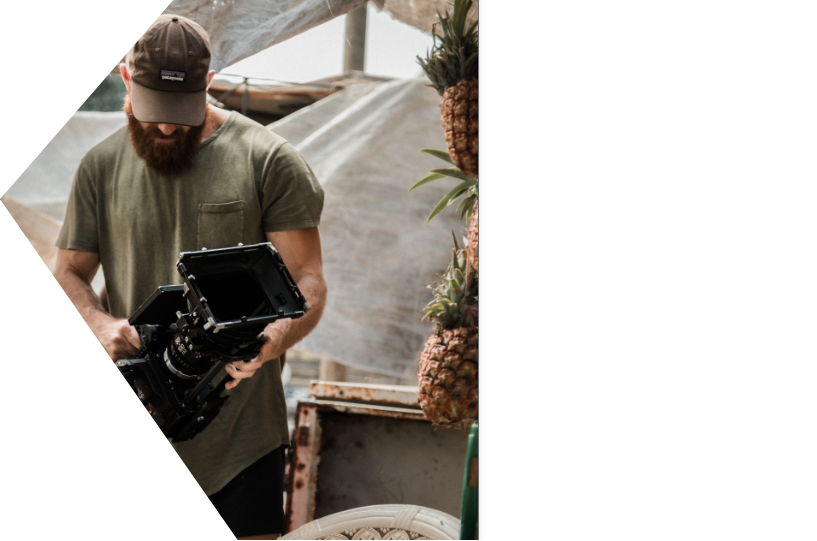
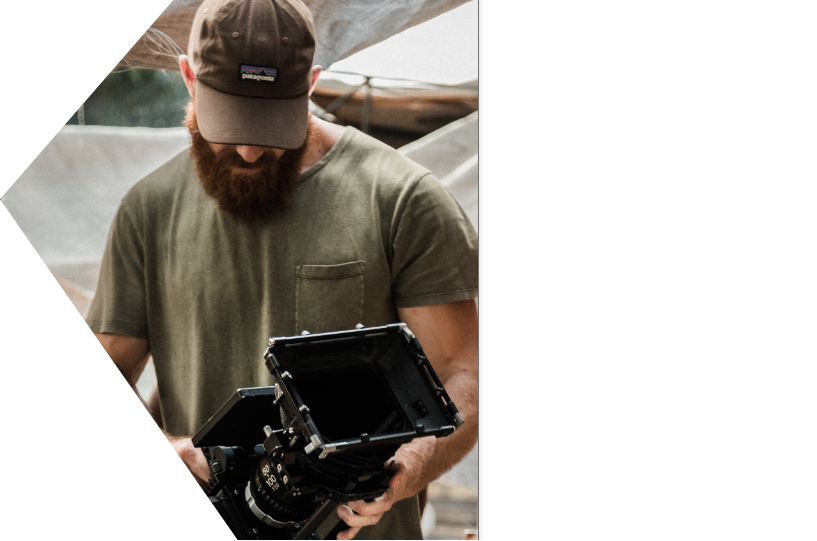
Redid home page responsivity

diff --git a/css/style.css b/css/style.css
@@ -1,1 +1,1 @@
-a{text-decoration:none}.hamburger{position:fixed;top:6rem;right:9rem;padding:.5rem;cursor:pointer;z-index:2000}.hamburger i{font-size:2rem}.times{display:none}header::before{content:'';position:fixed;top:0;left:0;bottom:0;right:0;background-color:rgba(0,0,0,0.9);transform:translate(-100%, .1%);opacity:0;z-index:999;transition:opacity .6s, transform .2s .6s}.sidebar{background:url(/images/Underdog_menubg.png) center center no-repeat;position:fixed;top:0;left:0;width:100%;height:100%;display:flex;justify-content:space-between;padding:0;z-index:1000;transform:translateX(-100%);transition:transform .6s linear;background-color:white}.nav-list{list-style:none;text-align:center;margin:auto}.nav-item{position:relative}.nav-item::before{content:"";position:absolute;width:100%;height:1px;left:0;bottom:0}.nav-link{display:block;font-size:3.3rem;color:black;text-transform:uppercase;line-height:14rem;letter-spacing:3px;transition:color .6s}.nav-link:hover{color:rgba(131,131,131,0.8)}.nav-link.current{color:#D0BE9E}.nav-link i{font-size:2rem;margin-right:1rem}.social-media{display:flex;margin:0 auto;width:25%;position:absolute;bottom:30px;left:38%}.icon-link{font-size:2.5rem;color:#e1e1e1;margin:auto;transition:background-color .6s}.icon-link:hover{color:gray}.icon-link i{color:rgba(255,255,255,0.8)}.icon-link i img{width:42px}main{perspective:100rem}.zoom-content{transform-style:preserve-3d;transition:transform 0.6s cubic-bezier(0.95, 0.05, 0.795, 0.035);height:1000vh}.active .times{display:block}.active .bars{display:none}header .active::before{transform:translateX(0, 0);opacity:1;transition:opacity .6s}.active .sidebar{transform:translateX(0)}.active .zoom-content{transform:translate3d(0, 0)}@media screen and (min-device-width: 768px) and (max-device-width: 1024px){.nav-link{display:block;font-size:2.3rem;color:black;text-transform:uppercase;line-height:15rem;letter-spacing:3px;transition:color .6s}.hamburger{position:fixed;top:6rem;right:9rem;padding:.5rem;cursor:pointer;z-index:2000}.social-media{width:auto}.nav-list{line-height:30px;width:auto;margin:20% auto}.nav-item{line-height:1.5px}.social-media{display:flex;margin:0 auto;width:100%;position:absolute;bottom:30px;left:0}.sidebar{width:100%}.icon-link{font-size:2.5rem;color:#e1e1e1;margin:auto;transition:background-color .6s}.icon-link:hover{color:gray}.icon-link i{color:rgba(255,255,255,0.8)}}@media screen and (min-device-width: 360px) and (max-device-width: 768px){.nav-link{display:block;font-size:2.3rem;color:black;text-transform:uppercase;line-height:10rem;letter-spacing:3px;transition:color .6s}.hamburger{top:3.9rem;right:1.5rem}.hamburger img{width:70%}.social-media{width:auto}.nav-list{line-height:15px;width:auto;margin:auto}.nav-item{line-height:1.5px}.social-media{display:flex;margin:0 auto;width:100%;position:absolute;left:0}.sidebar{width:100%}}.splash{width:100%;height:100vh;background-image:url(../images/mainbg.png);background-repeat:no-repeat;background-position:right;background-size:76vh}.logo h1{font-family:'Libre Baskerville', serif;font-size:20px;font-weight:inherit;letter-spacing:6.5px;color:#707070;position:absolute;top:7.2rem;left:8.5rem}.divider{position:absolute;top:89px;left:86px;z-index:-10;display:none}.main-text{display:flex}.bold{position:absolute;top:316px;left:178px;line-height:1;display:flex;flex-direction:column}.bold h1{margin-bottom:20px;text-transform:uppercase;font-size:39px;font-weight:1}.body-text{font-size:26px;letter-spacing:1px}.logos{display:flex;width:auto;position:absolute;top:9%;margin:auto}.logo-group{display:flex;flex-direction:row;width:100%;justify-content:space-between;margin:0 4%}.logo-group img{width:8%;height:auto;margin:auto}@media screen and (min-device-width: 360px) and (max-device-width: 768px){.logo h1{top:4.5rem;left:2.5rem}.splash{width:100%;height:80vh;background-repeat:no-repeat;background-position:left bottom;background-size:90%}.divider{display:none}.bold{position:absolute;top:1.2%;left:auto;line-height:1;display:flex;flex-direction:column;text-align:center;width:100%}.bold h1{margin:auto;text-transform:uppercase;font-size:19px;font-weight:1;text-align:center}.body-text{display:none;width:auto}.logos{display:flex;width:auto;position:absolute;top:8.1%;margin:auto}.logo-group{display:flex;flex-direction:row;width:100%;justify-content:space-between;margin:0px 5%}.logo-group img{width:12%;height:auto;margin:auto}}@media screen and (min-device-width: 768px) and (max-device-width: 1024px){.logo h1{top:7.5rem;left:1.5rem}.splash{width:100%;height:100vh;background-image:url(../images/mainbg.png);background-repeat:no-repeat;background-position:right;background-size:56vh}.divider{display:none}}*,*::before,*::after{margin:0;padding:0;box-sizing:border-box}html{font-family:'Didact Gothic', sans-serif;font-family:'Libre Baskerville', serif;font-family:'Questrial', sans-serif;font-size:10px}
+a{text-decoration:none}.hamburger{position:fixed;top:6rem;right:9rem;padding:.5rem;cursor:pointer;z-index:2000}.hamburger i{font-size:2rem}.times{display:none}header::before{content:'';position:fixed;top:0;left:0;bottom:0;right:0;background-color:rgba(0,0,0,0.9);transform:translate(-100%, .1%);opacity:0;z-index:999;transition:opacity .6s, transform .2s .6s}.sidebar{background-image:url(../images/Underdog_menubg.png) no-repeat;position:fixed;top:0;left:0;width:100%;height:100%;display:flex;justify-content:space-between;padding:0;z-index:1000;transform:translateX(-100%);transition:transform .6s linear;background-color:white}.nav-list{list-style:none;text-align:center;margin:auto}.nav-item{position:relative}.nav-item::before{content:"";position:absolute;width:100%;height:1px;left:0;bottom:0}.nav-link{display:block;font-size:3.3rem;color:black;text-transform:uppercase;line-height:14rem;letter-spacing:3px;transition:color .6s}.nav-link:hover{color:rgba(131,131,131,0.8)}.nav-link.current{color:#D0BE9E}.nav-link i{font-size:2rem;margin-right:1rem}.social-media{display:flex;margin:0 auto;width:25%;position:absolute;bottom:30px;left:38%}.icon-link{font-size:2.5rem;color:#e1e1e1;margin:auto;transition:background-color .6s}.icon-link:hover{color:gray}.icon-link i{color:rgba(255,255,255,0.8)}.icon-link i img{width:42px}main{perspective:100rem}.zoom-content{transform-style:preserve-3d;transition:transform 0.6s cubic-bezier(0.95, 0.05, 0.795, 0.035);height:1000vh;background:url(../images/mainbg.png) no-repeat;background-position-y:0%;background-position-x:100%;background-size:76vh}.active .times{display:block}.active .bars{display:none}header .active::before{transform:translateX(0, 0);opacity:1;transition:opacity .6s}.active .sidebar{transform:translateX(0)}.active .zoom-content{transform:translate3d(0, 0)}@media screen and (min-device-width: 768px) and (max-device-width: 1024px){.nav-link{display:block;font-size:2.3rem;color:black;text-transform:uppercase;line-height:15rem;letter-spacing:3px;transition:color .6s}.hamburger{position:fixed;top:6rem;right:9rem;padding:.5rem;cursor:pointer;z-index:2000}.social-media{width:auto}.nav-list{line-height:30px;width:auto;margin:20% auto}.nav-item{line-height:1.5px}.social-media{display:flex;margin:0 auto;width:100%;position:absolute;bottom:30px;left:0}.sidebar{width:100%}.icon-link{font-size:2.5rem;color:#e1e1e1;margin:auto;transition:background-color .6s}.icon-link:hover{color:gray}.icon-link i{color:rgba(255,255,255,0.8)}.zoom-content{transform-style:preserve-3d;transition:transform 0.6s cubic-bezier(0.95, 0.05, 0.795, 0.035);height:1000vh;background:url(../images/bgmobile.png) no-repeat;background-size:171%;background-position-x:0%;background-position-y:1.2%}}@media screen and (min-device-width: 360px) and (max-device-width: 768px){.nav-link{display:block;font-size:2.3rem;color:black;text-transform:uppercase;line-height:10rem;letter-spacing:3px;transition:color .6s}.hamburger{top:3.9rem;right:1.5rem}.hamburger img{width:70%}.social-media{width:auto}.nav-list{line-height:15px;width:auto;margin:auto}.nav-item{line-height:1.5px}.social-media{display:flex;margin:0 auto;width:100%;position:absolute;left:0}.sidebar{width:100%}.zoom-content{transform-style:preserve-3d;transition:transform 0.6s cubic-bezier(0.95, 0.05, 0.795, 0.035);height:1000vh;background:url(../images/bgmobile.png) no-repeat;background-size:200%;background-position-x:10%;background-position-y:1.4%}}.logo h1{font-family:'Libre Baskerville', serif;font-size:20px;font-weight:inherit;letter-spacing:6.5px;color:#707070;position:absolute;top:7.2rem;left:8.5rem}.divider{position:absolute;top:89px;left:86px;z-index:-10;display:none}.head-text{display:flex}.text1{display:flex;margin:auto;position:absolute;top:32vh;left:15vw;flex-direction:column;line-height:1}.text1 h1{font-size:35px;text-transform:uppercase;font-weight:500;font-family:'Poppins', sans-serif}.text1 p{font-size:20px;margin-top:10px;font-weight:300;font-family:'Poppins', sans-serif}.logos{display:flex;width:auto;position:absolute;top:9%;margin:auto;left:3.4%}.logo-group{display:flex;flex-direction:row;width:100%;justify-content:space-between;margin:0 4%}.logo-group img{width:8%;height:auto;margin:auto}@media screen and (min-device-width: 360px) and (max-device-width: 768px){.logo h1{top:4.5rem;left:2.5rem}.head-text{display:none}.text1{display:flex;margin:auto;position:absolute;top:32vh;left:15vw;flex-direction:column;line-height:1}.text1 h1{font-size:35px;text-transform:uppercase;font-weight:500;font-family:'Poppins', sans-serif}.text1 p{font-size:20px;margin-top:10px;font-weight:300;font-family:'Poppins', sans-serif}.logos{display:flex;width:auto;position:absolute;top:8.5%;margin:auto}.logo-group{display:flex;flex-direction:row;width:100%;justify-content:space-between;margin:0px 5%}.logo-group img{width:12%;height:auto;margin:auto}}@media screen and (min-device-width: 768px) and (max-device-width: 1024px){.logo h1{top:4.5rem;left:3.5rem}.splash{width:100%;height:100vh;background-image:url(../images/mainbg.png);background-repeat:no-repeat;background-position:right;background-size:56vh}.divider{display:none}}*,*::before,*::after{margin:0;padding:0;box-sizing:border-box}html{font-family:'Didact Gothic', sans-serif;font-family:'Libre Baskerville', serif;font-family:'Questrial', sans-serif;font-family:'Poppins', sans-serif;font-size:10px}

diff --git a/index.html b/index.html
@@ -6,9 +6,11 @@
     <meta name="viewport" content="width=device-width, initial-scale=1.0">
     <title>Underdog</title>
     <link rel="stylesheet" href="css/style.css">
+    <link rel="icon" type="image/png" href="images/underdog_full.png"/>
     <link
         href="https://fonts.googleapis.com/css2?family=Didact+Gothic&family=Libre+Baskerville:ital,wght@0,400;0,700;1,400&family=Questrial&display=swap"
         rel="stylesheet">
+        <link href="https://fonts.googleapis.com/css2?family=Poppins:wght@100;500;300;700;900&display=swap" rel="stylesheet"> 
 </head>
 
 <header>
@@ -63,42 +65,37 @@
 <body>
     <main>
         <div class="zoom-content">
-            <section class="splash">
+            <div class="container">
                 <div class="logo">
                     <a href="index.html">
                         <h1>UNDERDOG</h1>
-                        <div class="divider">
-                        <img src="/images/dividertop.png" alt="Underline">
-                    </div>
                     </a>
                 </div>
-                <section class="main-text">
-                    <div class="bold">
+
+                <div class="head-text">
+                    <div class="text1">
                         <h1>Digital media content<br> 
                             is our bread and butter.
                             </h1>
-                        <p class="body-text">
-                            Underdog Studio Ltd is a creative production<br>
-                            group offering marketing solutions for businesses<br> 
+                        <p>Underdog Studio Ltd is a creative production<br>
+                            group offering marketing solutions for businesses<br>
                             of all sizes.
-                         </p>
+                        </p>
                     </div>
+                </div>
 
-                    <div class="logos">
-                        <div class="logo-group">
-                            <img src="images/Kubota_Logo_2015_CMYK(1).png" alt="Kubota logo">
-                            <img src="images/100.png" alt="Coors logo">
-                            <img src="images/CORG_2C_Logo-BIL.png" alt="Coors Organic Logo">
-                            <img src="images//-IBNNHXL_400x400.png" alt="Molson Logo">
-                            <img src="images/miller-lite-logo.png" alt="miller light logo">
-                            <img src="images/clipart1994447.png" alt="arizone iced tea logo">
-                            <img src="images/1200px-The_Hospital_for_Sick_Children_Logo.svg.png" alt="sick kids hospital logo">
-                        </div>
+                <div class="logos">
+                    <div class="logo-group">
+                        <img src="images/Kubota_Logo_2015_CMYK(1).png" alt="Kubota logo">
+                        <img src="images/100.png" alt="Coors logo">
+                        <img src="images/CORG_2C_Logo-BIL.png" alt="Coors Organic Logo">
+                        <img src="images//-IBNNHXL_400x400.png" alt="Molson Logo">
+                        <img src="images/msiller-lite-logo.png" alt="miller light logo">
+                        <img src="images/clipart1994447.png" alt="arizone iced tea logo">
+                        <img src="images/1200px-The_Hospital_for_Sick_Children_Logo.svg.png" alt="sick kids hospital logo">
                     </div>
-                </section>
-                </section>
-
-                
+                </div>
+            </div>
         </div>
     </main>
 

diff --git a/scss/_homepage.scss b/scss/_homepage.scss
@@ -1,13 +1,3 @@
-.splash {
-    width: 100%;
-    height: 100vh;
-    background-image: url(../images/mainbg.png);
-    background-repeat: no-repeat;
-    background-position: right;
-    background-size: 76vh;
-
-}
-
 .logo h1 {
     font-family: 'Libre Baskerville', serif;
     font-size: 20px;
@@ -30,32 +20,35 @@
 
 }
 
-.main-text {
+.head-text {
     display: flex;
+
 }
 
-.bold {
+.text1 {
+    display: flex;
+    margin: auto;
     position: absolute;
-    top: 316px;
-    left: 178px;
-    line-height: 1;
-    display: flex;
+    top: 32vh;
+    left: 15vw;
     flex-direction: column;
-
-
+    line-height: 1;
 }
 
-.bold h1 {
-    margin-bottom: 20px;
+.text1 h1 {
+    font-size: 35px;
     text-transform: uppercase;
-    font-size: 39px;
-    font-weight: 1;
+    font-weight: 500;
+    font-family: 'Poppins', sans-serif;
 }
 
-.body-text {
-    font-size: 26px;
-    letter-spacing: 1px;
+.text1 p {
+    font-size: 20px;
+    margin-top: 10px;
+    font-weight: 300;
+    font-family: 'Poppins', sans-serif;
 }
+
 
 .logos {
     display: flex;
@@ -63,6 +56,7 @@
     position: absolute;
     top: 9%;
     margin: auto;
+    left: 3.4%;
 }
 
 .logo-group {
@@ -88,47 +82,42 @@
         left: 2.5rem;
     }
 
-    .splash {
-        width: 100%;
-        height: 80vh;
-        background-repeat: no-repeat;
-        background-position: left bottom;
-        background-size: 90%;
-    }
-
-    .divider {
+    .head-text {
         display: none;
     }
 
-    .bold {
-        position: absolute;
-        top: 1.2%;
-        left: auto;
-        line-height: 1;
+    .text1 {
         display: flex;
-        flex-direction: column;
-        text-align: center;
-        width: 100%;
-    }
-
-    .bold h1 {
         margin: auto;
-        text-transform: uppercase;
-        font-size: 19px;
-        font-weight: 1;
-        text-align: center;
+        position: absolute;
+        top: 32vh;
+        left: 15vw;
+        flex-direction: column;
+        line-height: 1;
     }
 
-    .body-text {
-        display: none;
-        width: auto;
+    .text1 h1 {
+        font-size: 35px;
+        text-transform: uppercase;
+        font-weight: 500;
+        font-family: 'Poppins', sans-serif;
     }
+
+    .text1 p {
+        font-size: 20px;
+        margin-top: 10px;
+        font-weight: 300;
+        font-family: 'Poppins', sans-serif;
+    }
+
+
+
 
     .logos {
         display: flex;
         width: auto;
         position: absolute;
-        top: 8.1%;
+        top: 8.5%;
         margin: auto;
     }
 
@@ -149,8 +138,8 @@
 
 @media screen and (min-device-width : 768px) and (max-device-width : 1024px) {
     .logo h1 {
-        top: 7.5rem;
-        left: 1.5rem;
+        top: 4.5rem;
+        left: 3.5rem;
         // display: none;
 
     }

diff --git a/scss/_nav.scss b/scss/_nav.scss
@@ -39,7 +39,7 @@ header::before {
 
 
 .sidebar {
-    background: url(/images/Underdog_menubg.png) center center no-repeat;
+    background-image: url(../images/Underdog_menubg.png) no-repeat;
     position: fixed;
     top: 0;
     left: 0;
@@ -132,6 +132,10 @@ main {
     transform-style: preserve-3d;
     transition: transform .6s cubic-bezier(0.95, 0.05, 0.795, 0.035);
     height: 1000vh;
+    background: url(../images/mainbg.png) no-repeat;
+    background-position-y: 0%;
+    background-position-x: 100%;
+    background-size: 76vh;
 
 }
 
@@ -226,6 +230,16 @@ header .active::before {
         color: rgba(255, 255, 255, .8);
     }
 
+    .zoom-content {
+        transform-style: preserve-3d;
+        transition: transform .6s cubic-bezier(0.95, 0.05, 0.795, 0.035);
+        height: 1000vh;
+        background: url(../images/bgmobile.png) no-repeat;
+        background-size: 171%;
+        background-position-x: 0%;
+        background-position-y: 1.2%;
+    }
+
 }
 
 
@@ -239,7 +253,6 @@ header .active::before {
         line-height: 10rem;
         letter-spacing: 3px;
         transition: color .6s;
-
     }
 
 
@@ -280,5 +293,17 @@ header .active::before {
     .sidebar {
         width: 100%;
     }
+
+    .zoom-content {
+        transform-style: preserve-3d;
+        transition: transform .6s cubic-bezier(0.95, 0.05, 0.795, 0.035);
+        height: 1000vh;
+        background: url(../images/bgmobile.png) no-repeat;
+        background-size: 200%;
+        background-position-x: 10%;
+        background-position-y: 1.4%;
+    }
+
+
 
 }

diff --git a/scss/style.scss b/scss/style.scss
@@ -1,21 +1,23 @@
 @import 'nav';
 @import 'variables';
 @import 'homepage';
+
 *,
 *::before,
-*::after{
+*::after {
     margin: 0;
     padding: 0;
     box-sizing: border-box;
 }
 
-html{
+html {
     font-family: 'Didact Gothic', sans-serif;
 
     font-family: 'Libre Baskerville', serif;
 
     font-family: 'Questrial', sans-serif;
+
+    font-family: 'Poppins', sans-serif;
+
     font-size: 10px;
 }
-
-
